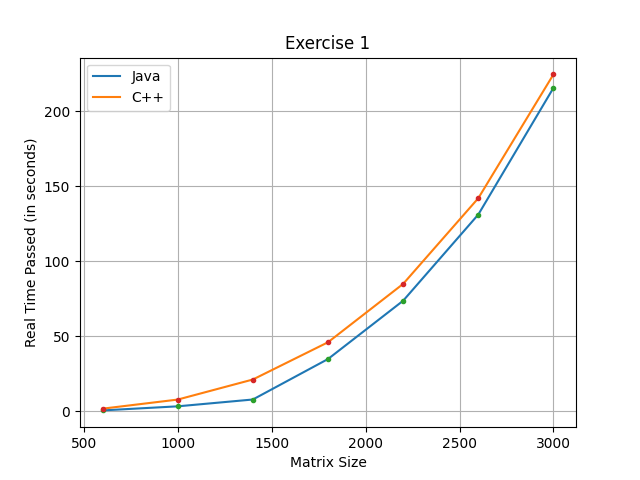
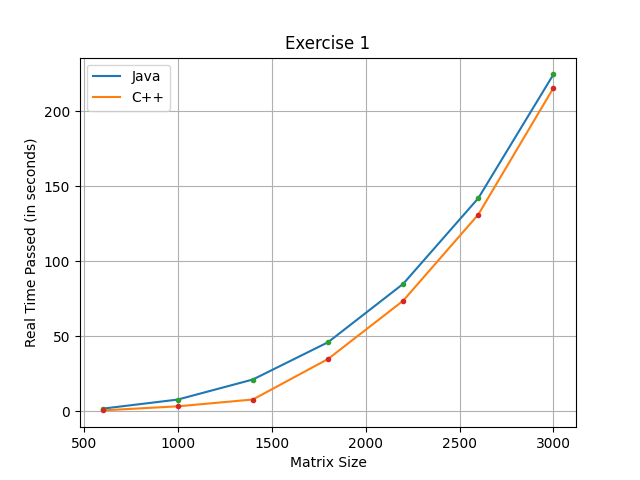
Bugfix in plot.py

Changed region(s): [[0.1562, 0.2812, 0.8125, 0.875], [0.8438, 0.1562, 0.875, 0.2188], [0.8125, 0.2188, 0.8438, 0.2812]]

diff --git a/plot.py b/plot.py
@@ -79,10 +79,10 @@ print(cTimes1L2)
 # print(cTimes3)
 
 # -------------------------- Exercise 1/2 ------------------------------
-plotAndSave(sizes, [cTimes1, javaTimes1],
+plotAndSave(sizes, [javaTimes1, cTimes1],
             ['Java', 'C++'], 'Exercise 1', savePath+'ex1.png')
 
-plotAndSave(sizes, [cTimes2, javaTimes2],
+plotAndSave(sizes, [javaTimes2, cTimes2],
             ['Java', 'C++'], 'Exercise 2', savePath+'ex2.png')
 
 plotAndSave(sizes, [javaTimes1, javaTimes2],
